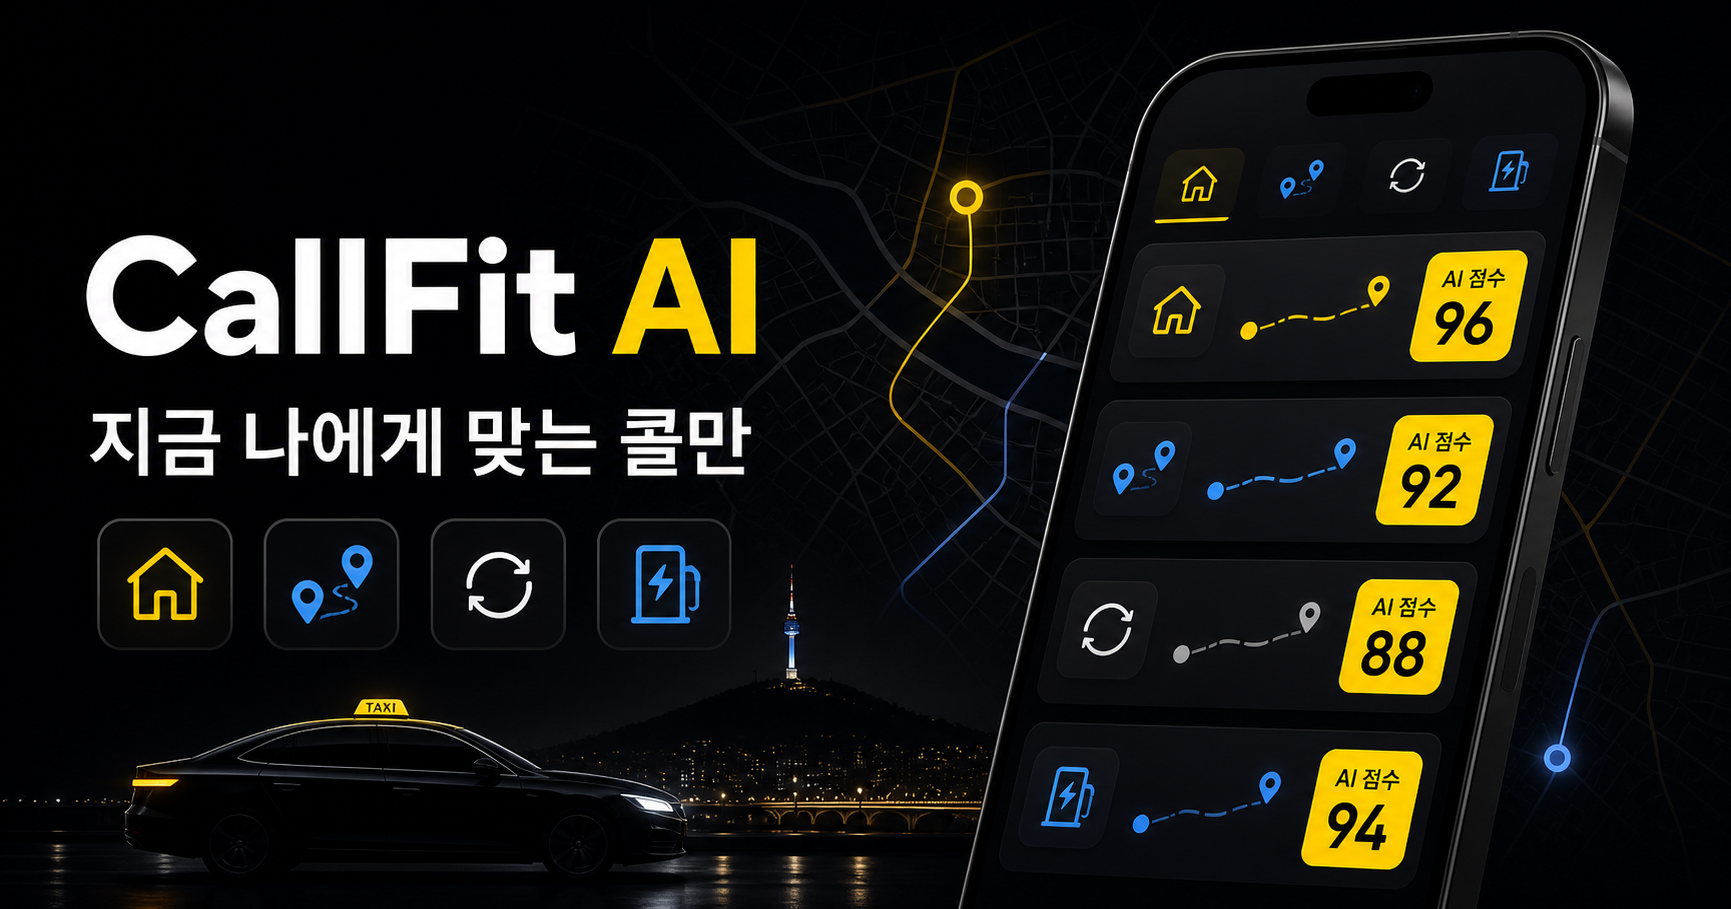
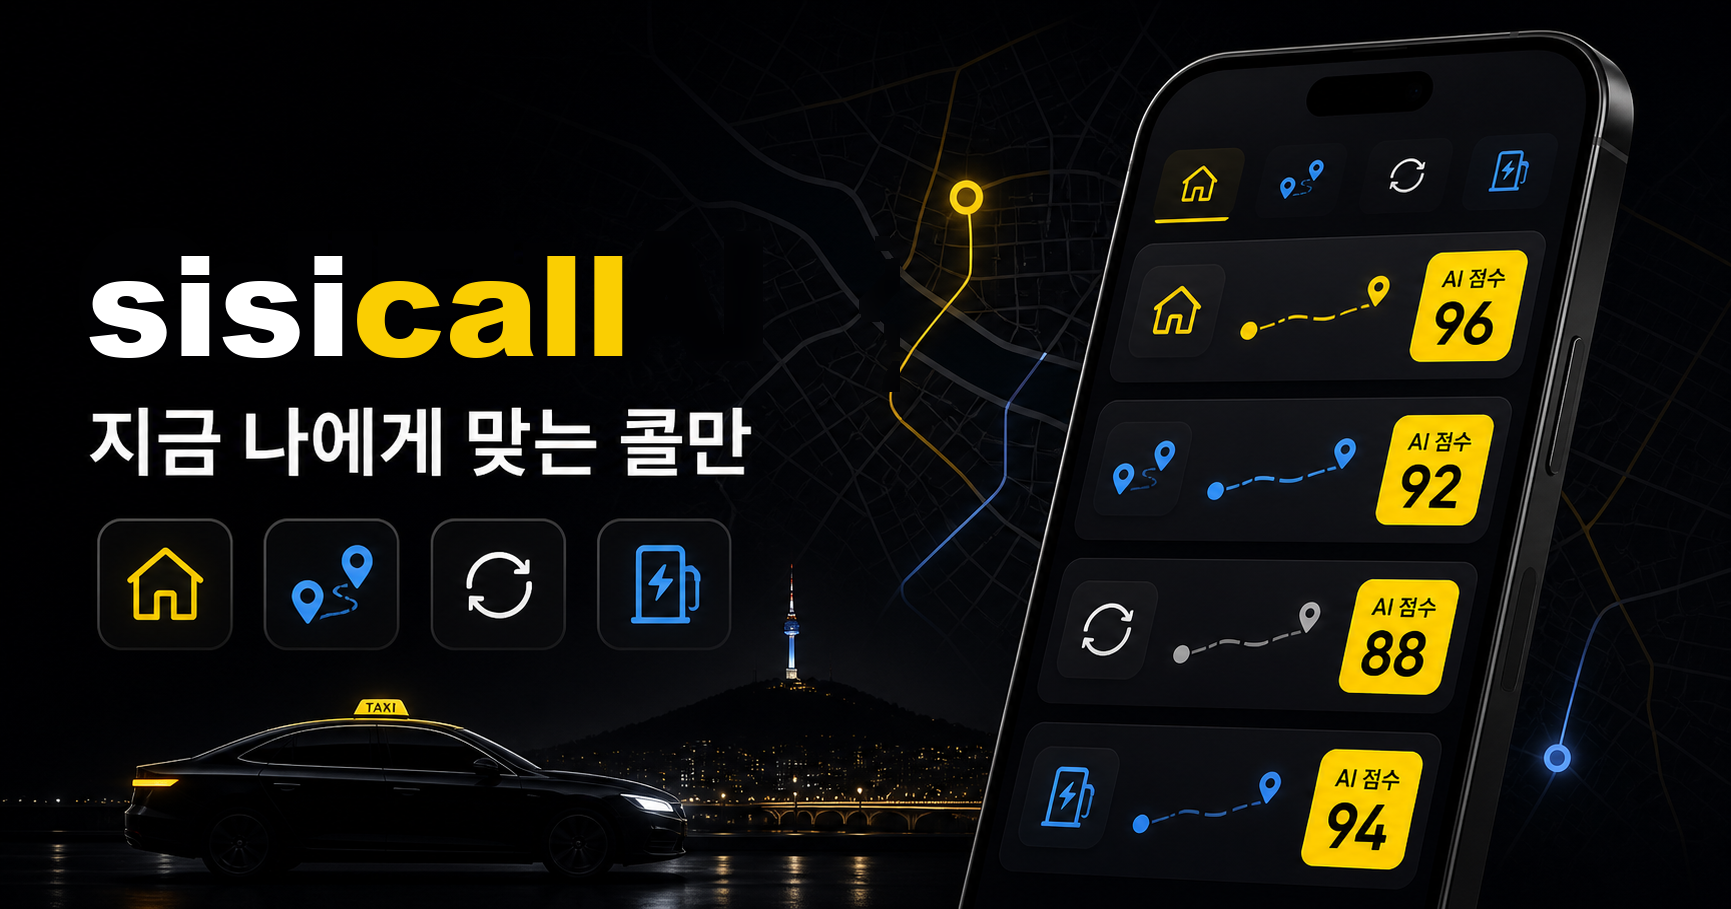
fix: OG 이미지의 서비스명을 sisicall로 교체
이미지에 CallFit AI가 그려져 있어 링크 공유 시 옛 이름이 노출됐다.
디자인은 유지하고 타이틀 글자만 교체했으며, 메신저 캐시를 피하려고
og:image에 절대경로와 버전을 붙였다.

Changed region(s): [[0.0312, 0.2464, 0.4367, 0.4004], [0.4991, 0.3388, 0.5303, 0.3696]]

diff --git a/index.html b/index.html
@@ -8,9 +8,13 @@
     <meta property="og:type" content="website" />
     <meta property="og:title" content="sisicall - 지금 나에게 맞는 콜만" />
     <meta property="og:description" content="기사의 현재 목적과 차량 조건에 맞춰 3,000건의 콜을 다시 선별하는 AI 배차 모드" />
-    <meta property="og:image" content="/og.png" />
+    <meta property="og:url" content="https://sisicall.vercel.app/" />
+    <!-- 메신저가 이전 이미지를 캐시하므로 절대경로와 버전을 붙여 새로 받게 한다 -->
+    <meta property="og:image" content="https://sisicall.vercel.app/og.png?v=2" />
+    <meta property="og:image:width" content="1731" />
+    <meta property="og:image:height" content="909" />
     <meta name="twitter:card" content="summary_large_image" />
-    <meta name="twitter:image" content="/og.png" />
+    <meta name="twitter:image" content="https://sisicall.vercel.app/og.png?v=2" />
     <meta name="theme-color" content="#131313" />
     <meta name="apple-mobile-web-app-capable" content="yes" />
     <meta name="apple-mobile-web-app-status-bar-style" content="black-translucent" />
